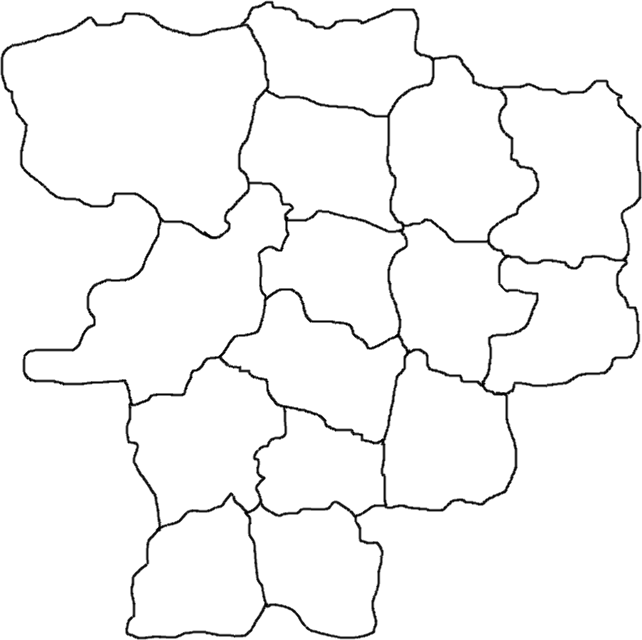
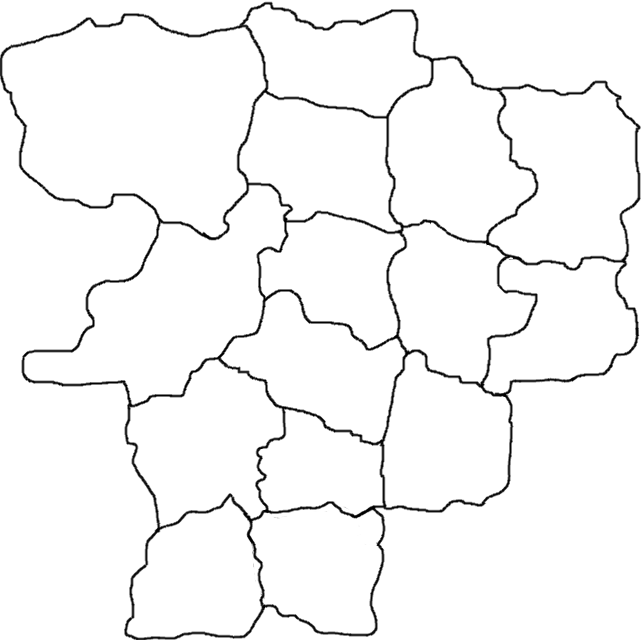
Fix influence detection

diff --git a/apps/overwolf/src/utils/influence.ts b/apps/overwolf/src/utils/influence.ts
@@ -121,10 +121,10 @@ export const regions = [
   },
   {
     name: 'Old First Light',
-    top: 513,
-    left: 270,
-    right: 360,
-    bottom: 605,
+    top: 523,
+    left: 280,
+    right: 350,
+    bottom: 585,
     center: [285, 550],
   },
   {
@@ -245,12 +245,6 @@ export const validationRects = [
     left: 47,
     right: 68,
     bottom: 29,
-  },
-  {
-    top: 130,
-    left: 0,
-    right: 15,
-    bottom: 160,
   },
   {
     top: 214,
